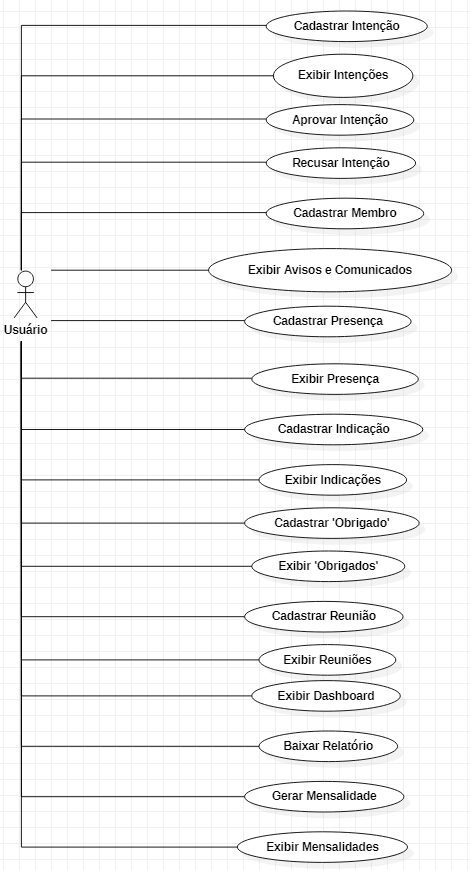
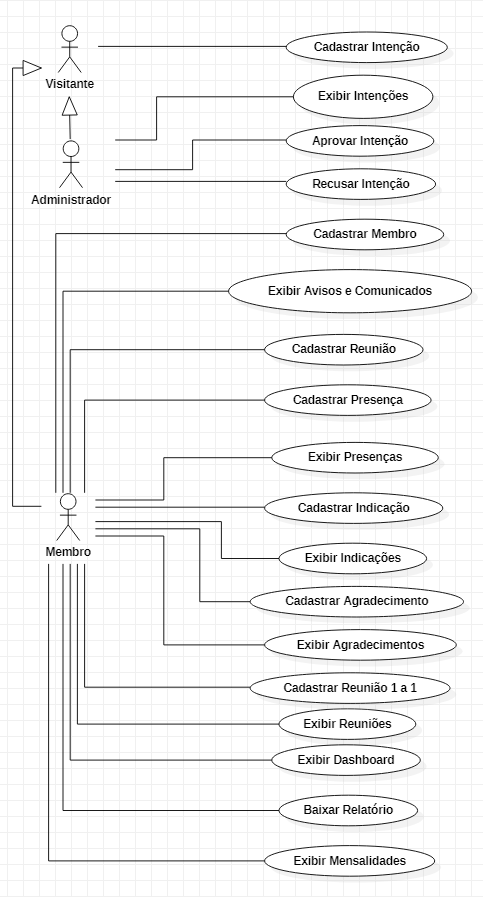
Atualizar descrição da arquitetura e diagramas

diff --git a/ARQUITETURA.md b/ARQUITETURA.md
@@ -14,7 +14,8 @@ Stack proposta:
 - Backend: **Node.js** e **Express**
 - Banco de dados: **Relacional - PostgreSQL** [(Justificativas abaixo)](#Justificativas)
 - Testes: **Jest** + **React Testing Library**
-- Autenticação administrativa: Simples via variável de ambiente (token) para o escopo do teste
+
+Autenticação administrativa: Simples via variável de ambiente (Variável `SENHA_ADMIN` definida no arquivo `.env`) para o escopo do teste
 
 #### Entregáveis:
 
@@ -44,10 +45,12 @@ flowchart LR
 ```
 
 - **(2) Modelo de dados da aplicação**
-Modelo de dados relacional com PostgreSQL. [(Justificativas abaixo)](#Justificativas) 
-Diagrama Entidade-Relacionamento (Representação do banco de dados):
+O modelo de dados da aplicação é relacional, com banco de dados PostgreSQL. [(Justificativas abaixo)](#Justificativas)
+O script SQL usado para criação das tabelas está em `plataforma_networking/backend/initDB/001_schema.sql`
 
-![Diagrama ER](DiagramaERBackground.png "Diagrama Entidade-Relacionamento")
+Abaixo está o Diagrama Entidade-Relacionamento:
+
+![Diagrama ER](DiagramaER.png "Diagrama Entidade-Relacionamento")
 
 - **(3) Organização dos componentes React**
 O projeto está organizado com pastas claras separadas por responsabilidade, e seguindo os novos padrões da versão 16 do next.js.
@@ -252,4 +255,4 @@ Funcionalidade, recursos do sistema, propriedades do sistema, estrutura,complexi
 - Decisão tomada e aprovada no início da fase de implementação do sistema. Não foi alterada.
 
 ###### **Visualização da arquitetura**
-![Diagrama de casos de uso](CasosDeUso2.png "Diagrama de casos de uso da aplicação")
+![Diagrama de casos de uso](CasosDeUso.png "Diagrama de casos de uso da aplicação")
